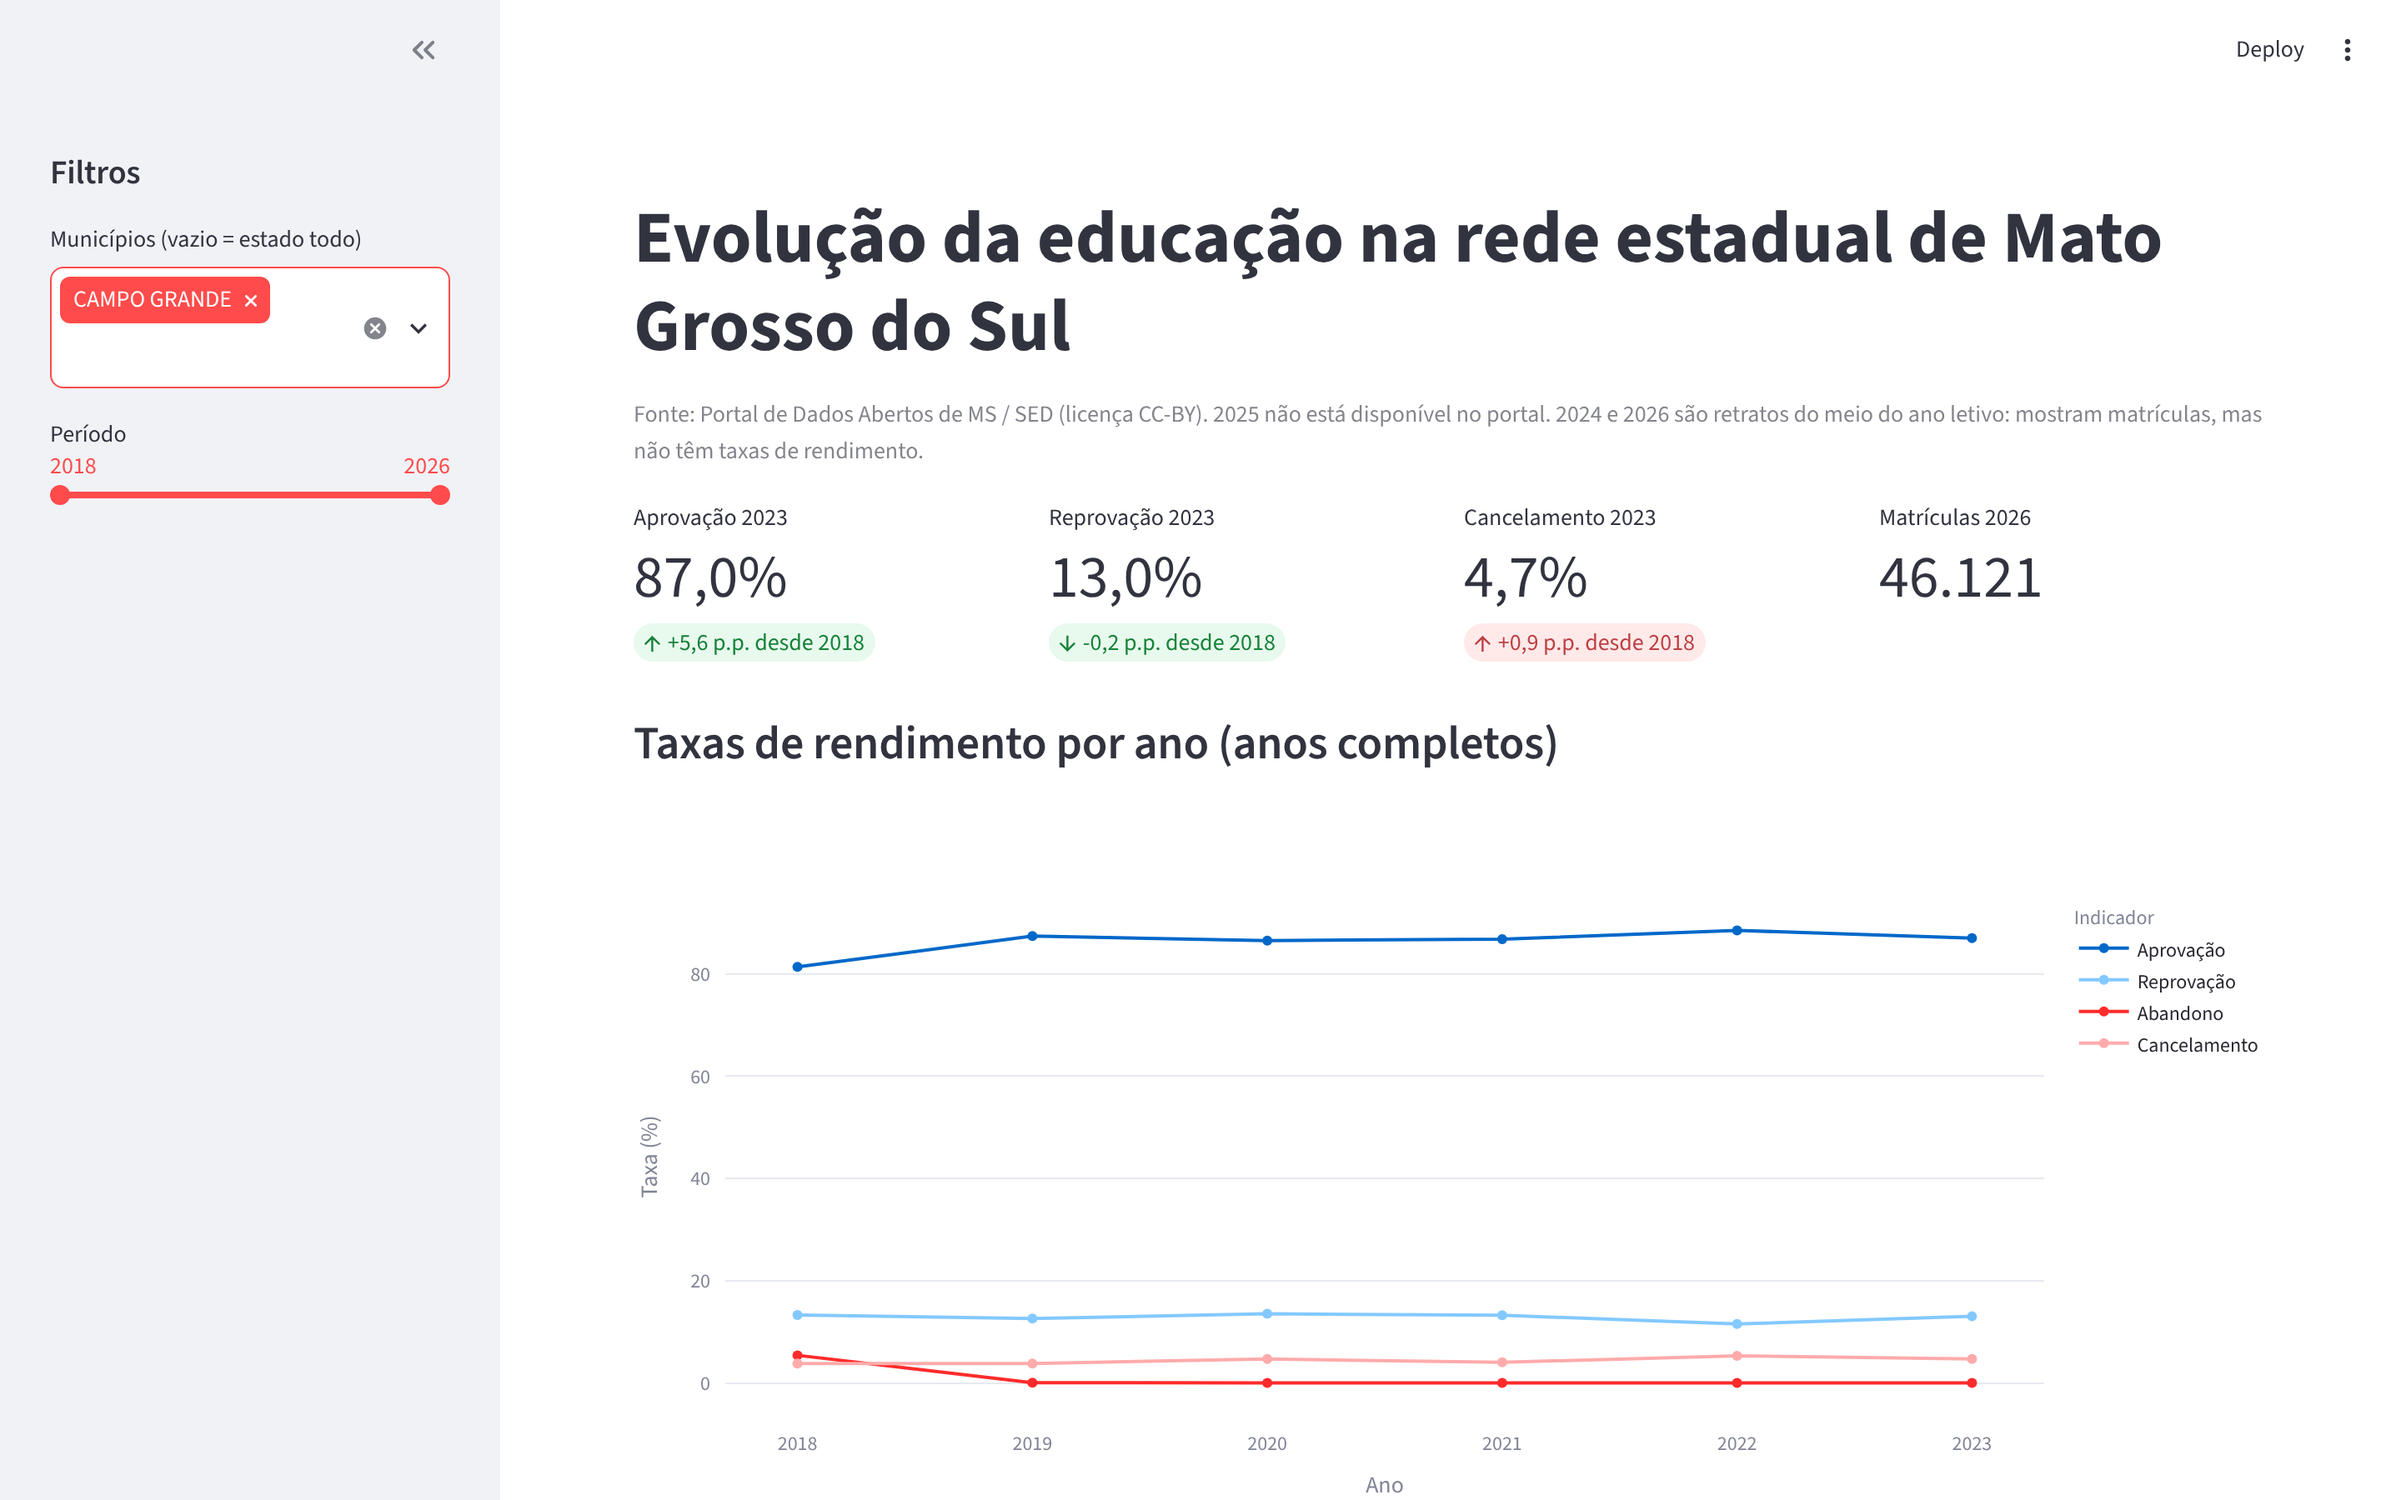
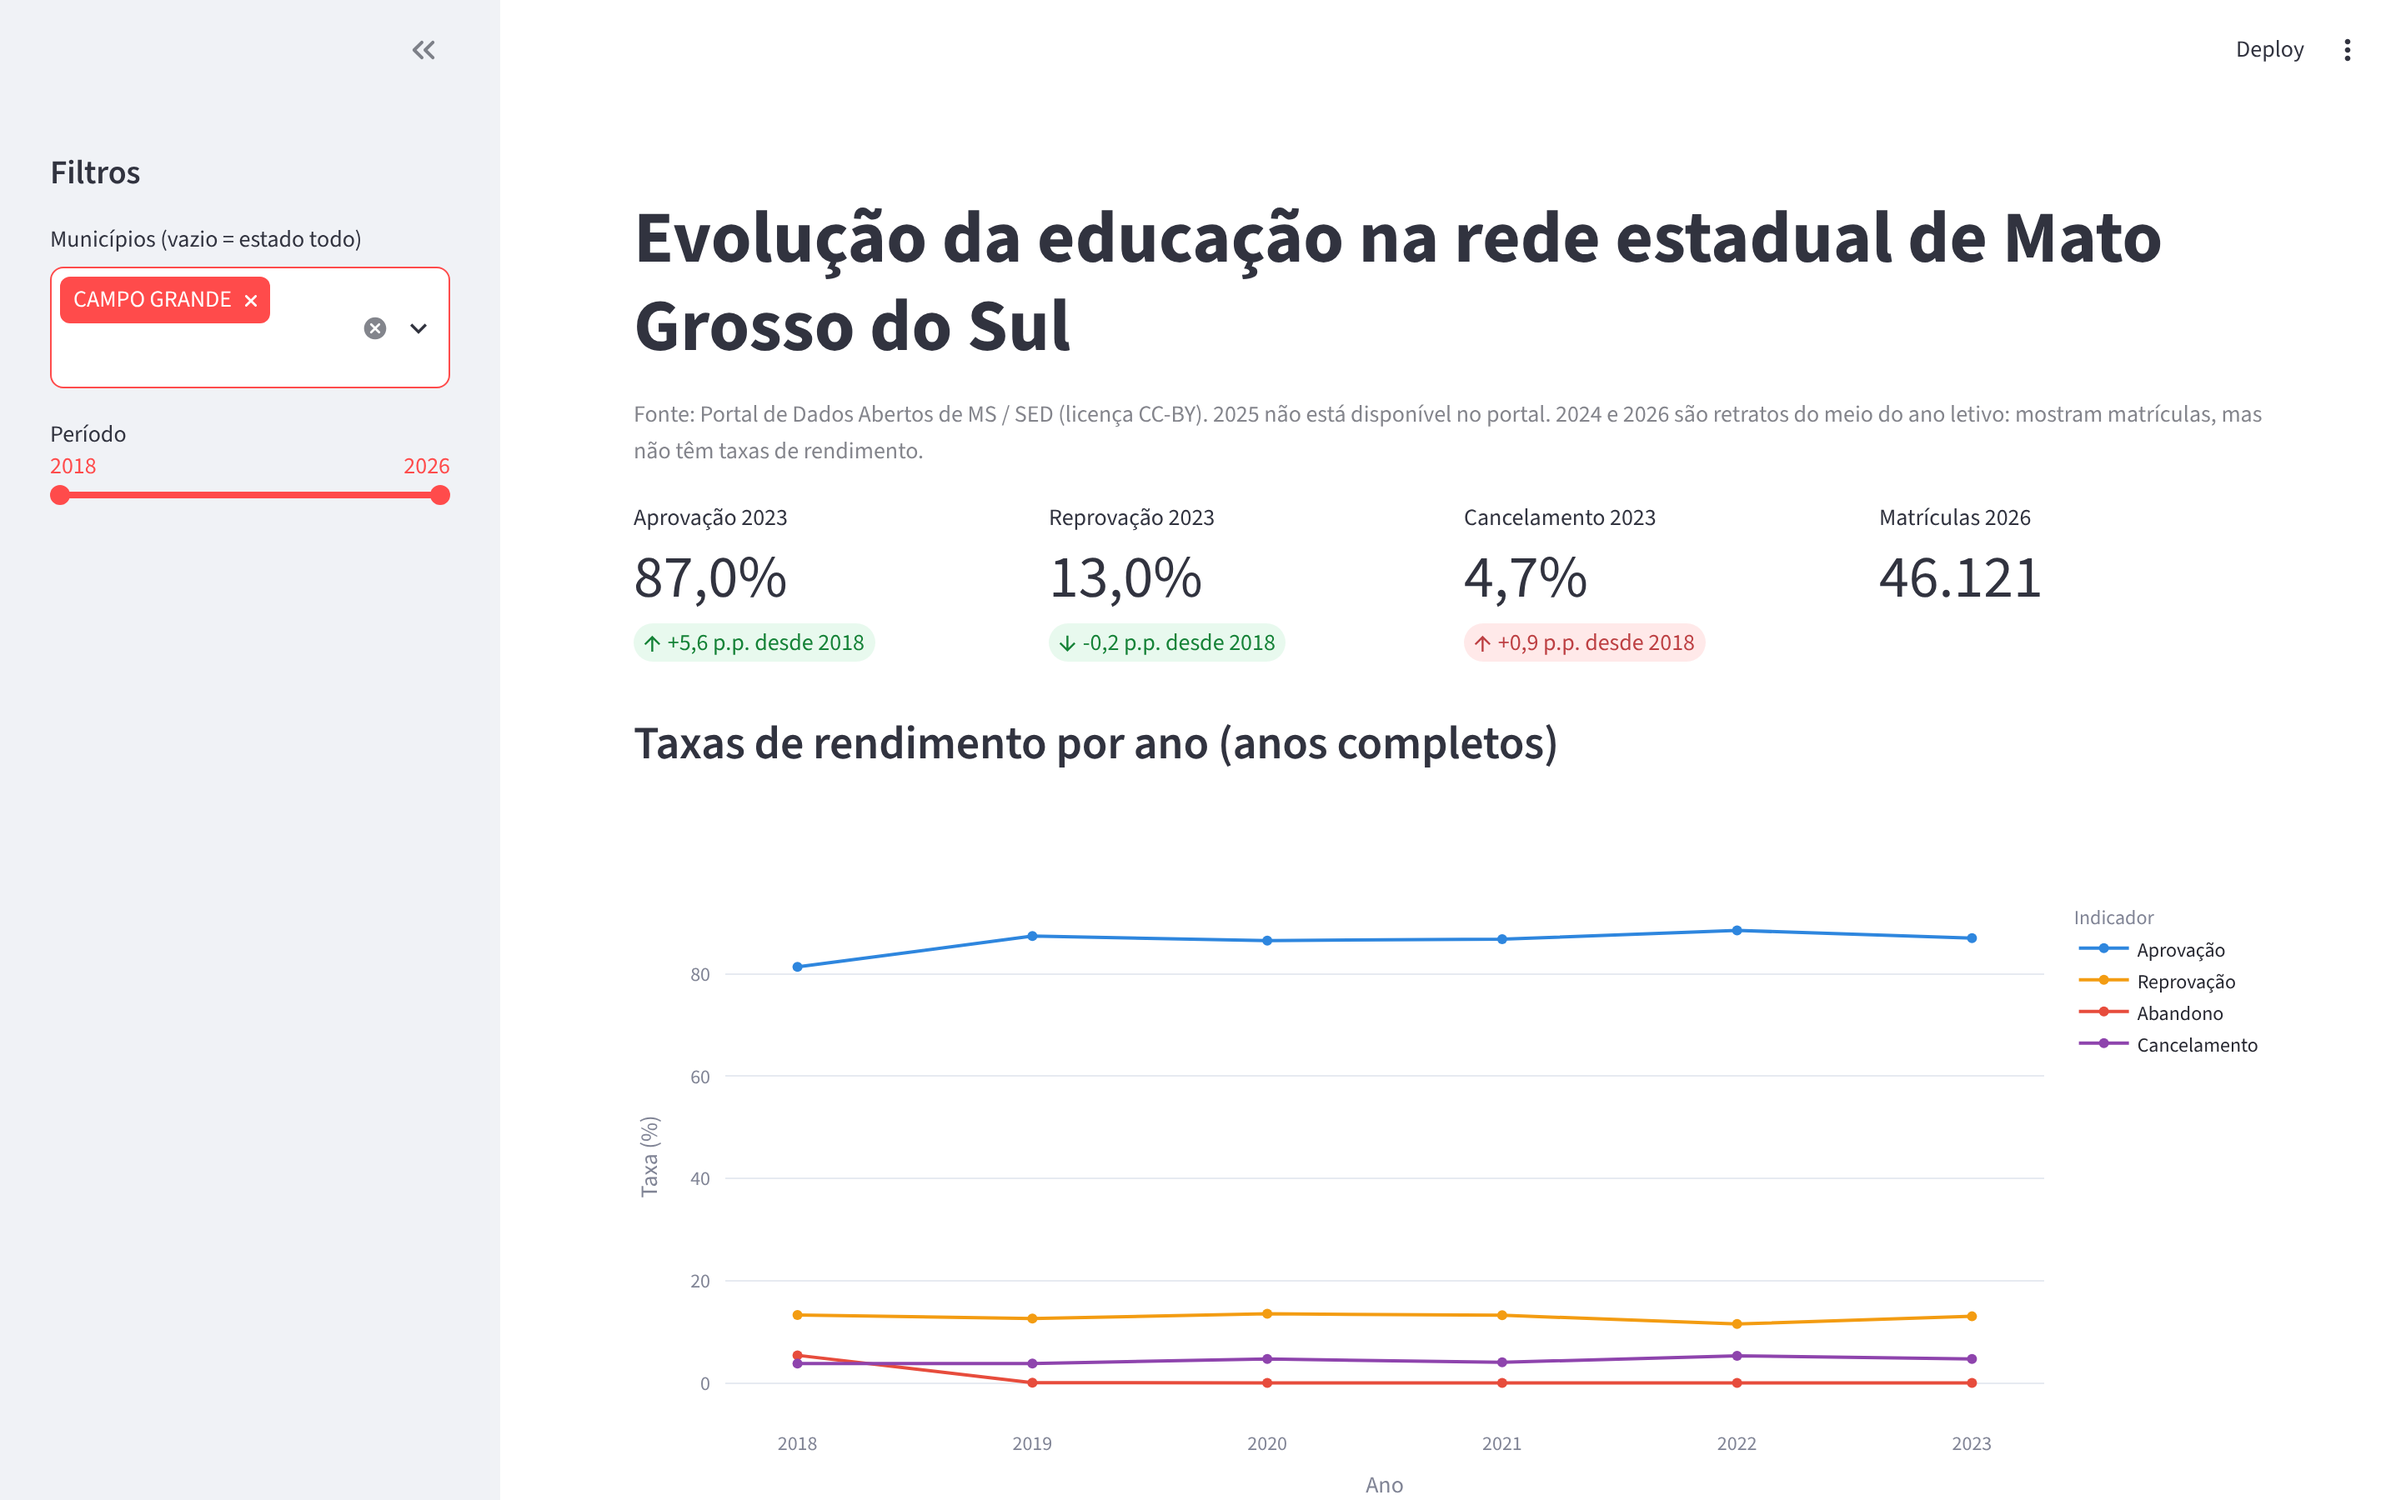
Dashboard: filtro em português, cores distintas e tabelas legíveis
- Placeholder do filtro de municípios em português
- Cores fixas e distintas para aprovação, reprovação, abandono e cancelamento
- Tabelas com nomes de coluna legíveis, sem índice e com taxas em uma casa decimal
- Prints de docs/img atualizados

Claude-Session: https://claude.ai/code/session_019t3nZRBpDnxDj5ysVaoMkY

Changed region(s): [[0.3438, 0.8711, 0.8125, 0.9333]]

diff --git a/app.py b/app.py
@@ -22,7 +22,8 @@ anos = repo.anos()
 
 with st.sidebar:
     st.header("Filtros")
-    sel_mun = st.multiselect("Municípios (vazio = estado todo)", repo.municipios())
+    sel_mun = st.multiselect("Municípios (vazio = estado todo)", repo.municipios(),
+                             placeholder="Selecione municípios")
     ano_ini, ano_fim = st.select_slider("Período", options=anos, value=(anos[0], anos[-1]))
 
 df = repo.indicadores(sel_mun, ano_ini, ano_fim)
@@ -68,7 +69,9 @@ if not completos.empty:
     st.subheader("Taxas de rendimento por ano (anos completos)")
     longo = completos.melt(id_vars="ano", value_vars=["Aprovação", "Reprovação", "Abandono", "Cancelamento"],
                            var_name="Indicador", value_name="Taxa (%)")
-    fig = px.line(longo, x="ano", y="Taxa (%)", color="Indicador", markers=True, labels={"ano": "Ano"})
+    cores = {"Aprovação": "#2e86de", "Reprovação": "#f39c12", "Abandono": "#e74c3c", "Cancelamento": "#8e44ad"}
+    fig = px.line(longo, x="ano", y="Taxa (%)", color="Indicador", markers=True, labels={"ano": "Ano"},
+                  color_discrete_map=cores)
     fig.update_xaxes(dtick=1)
     fig.update_layout(separators=",.")
     st.plotly_chart(fig, width="stretch")
@@ -99,8 +102,23 @@ if anos_completos and len(sel_mun) != 1:
 
 if len(sel_mun) == 1:
     st.subheader(f"Escolas de {sel_mun[0]}")
-    st.dataframe(repo.escolas(sel_mun[0], ano_ini, ano_fim), width="stretch")
+    escolas = repo.escolas(sel_mun[0], ano_ini, ano_fim).rename(columns={
+        "escola": "Escola", "ano": "Ano", "matriculas": "Matrículas", "aprovados": "Aprovados",
+        "reprovados": "Reprovados", "abandono": "Abandono", "cancelados": "Cancelados",
+        "transferidos": "Transferidos", "cursando": "Cursando"})
+    st.dataframe(escolas, width="stretch", hide_index=True,
+                 column_config={"Ano": st.column_config.NumberColumn(format="%d")})
 
 st.subheader("Dados filtrados")
-st.dataframe(df, width="stretch")
+tabela = df.drop(columns=["cursando"]).rename(columns={
+    "municipio": "Município", "ano": "Ano", "escolas": "Escolas", "matriculas": "Matrículas",
+    "aprovados": "Aprovados", "reprovados": "Reprovados", "abandono": "Abandono", "cancelados": "Cancelados",
+    "transferidos": "Transferidos", "ano_completo": "Ano completo", "taxa_aprovacao": "Aprovação (%)",
+    "taxa_reprovacao": "Reprovação (%)", "taxa_abandono": "Abandono (%)", "taxa_cancelamento": "Cancelamento (%)"})
+tabela["Ano completo"] = tabela["Ano completo"].map({1: "Sim", 0: "Não"})
+taxas = ["Aprovação (%)", "Reprovação (%)", "Abandono (%)", "Cancelamento (%)"]
+st.dataframe(tabela, width="stretch", hide_index=True,
+             column_config={"Ano": st.column_config.NumberColumn(format="%d"),
+                            **{c: st.column_config.NumberColumn(format="%.1f") for c in taxas}})
+st.caption("Taxas vazias = ano incompleto (2024 e 2026).")
 st.download_button("Baixar CSV", df.to_csv(index=False).encode("utf-8-sig"), "indicadores_ms.csv")
